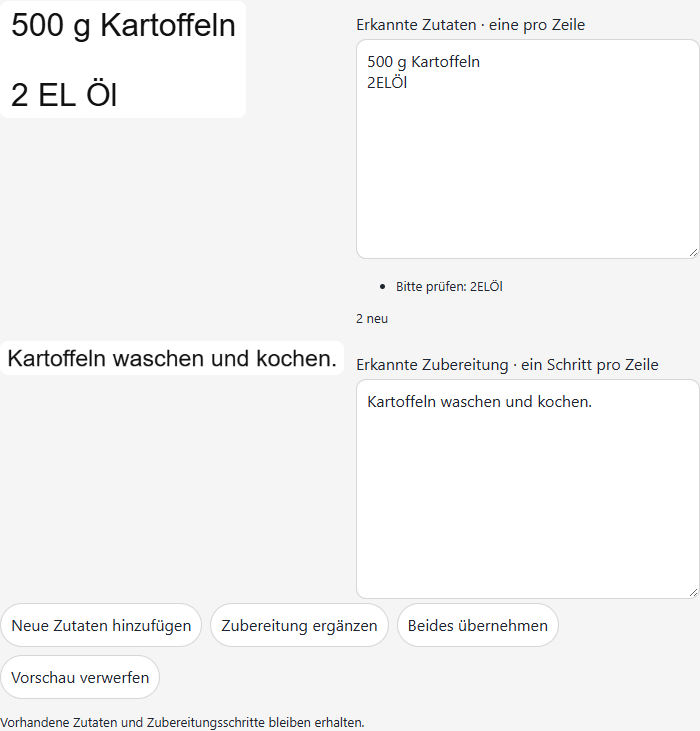
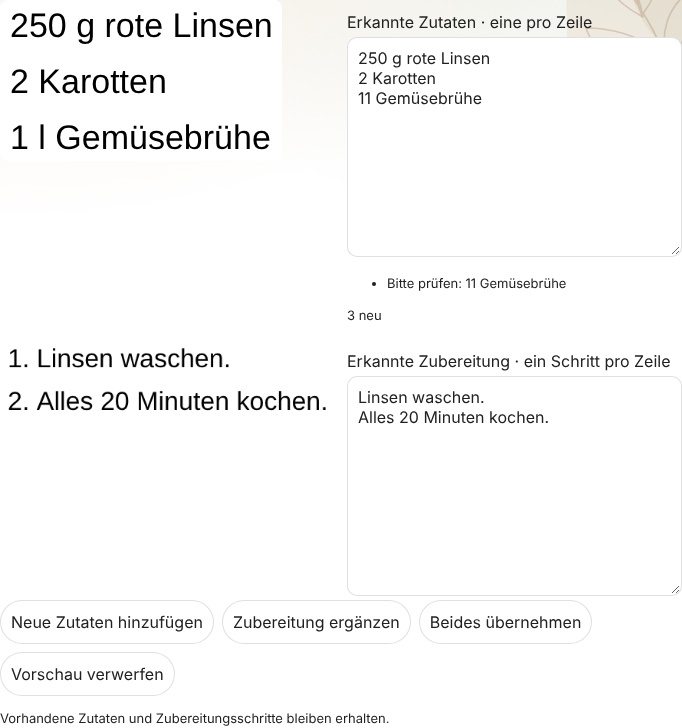
Essensplan 0.14.2: neue README-Bilder, Farbfehler im Mengen-Dialog
- Mengen & Nährwerte: Zeilen nutzen status-<Status> als Klasse; die
  globale Klasse .ok färbte vollständige Zeilen komplett grün.
- tools/readme_screenshots.py und .cjs erzeugen die README-Bilder aus
  erfundenen Testrezepten mit dem Code der Integration.
- Sechs neue Abbildungen in der README.

Claude-Session: https://claude.ai/code/session_01Gx6ab4Wub1sh6kfded4HAc

diff --git a/custom_components/essensplan/frontend/essensplan-card.js b/custom_components/essensplan/frontend/essensplan-card.js
@@ -1,4 +1,4 @@
-/* Essensplan 0.14.1 – bundled with the integration; no CDN or build step. */
+/* Essensplan 0.14.2 – bundled with the integration; no CDN or build step. */
 const esc = (value) => String(value ?? '').replace(/[&<>"']/g, c => ({'&':'&amp;','<':'&lt;','>':'&gt;','"':'&quot;',"'":'&#39;'}[c]));
 const localDate = d => `${d.getFullYear()}-${String(d.getMonth()+1).padStart(2,'0')}-${String(d.getDate()).padStart(2,'0')}`;
 function offsetDay(stamp, n) { const d = new Date(`${stamp}T12:00:00`); d.setDate(d.getDate()+n); return localDate(d); }
@@ -259,7 +259,7 @@ class EssensplanCard extends HTMLElement {
       ha-card{
         color:var(--ep-text);border-radius:26px;border:1px solid var(--ep-edge);
         background:var(--ep-surface);
-        background-image:url("/essensplan_static/kitchen-background.svg?v=0.14.1"),
+        background-image:url("/essensplan_static/kitchen-background.svg?v=0.14.2"),
           radial-gradient(ellipse at top left,#d9a47524,transparent 68%);
         background-size:min(100%,640px) auto,100% 360px;
         background-position:top right,top left;background-repeat:no-repeat;
@@ -290,7 +290,7 @@ class EssensplanCard extends HTMLElement {
       dialog{box-shadow:0 16px 54px #0005,inset 0 1px 0 var(--ep-glint)}
       @supports (color:color-mix(in srgb,white,black)){
         ha-card{
-          background-image:url("/essensplan_static/kitchen-background.svg?v=0.14.1"),
+          background-image:url("/essensplan_static/kitchen-background.svg?v=0.14.2"),
             radial-gradient(ellipse at 2% 0%,color-mix(in srgb,#e6ad7d 20%,transparent),transparent 63%),
             radial-gradient(ellipse at 96% 16%,color-mix(in srgb,#9baa7f 18%,transparent),transparent 65%),
             radial-gradient(ellipse at 5% 100%,color-mix(in srgb,var(--ep-accent) 12%,transparent),transparent 66%);
@@ -706,7 +706,7 @@ class EssensplanCard extends HTMLElement {
     return panel;
   }
   barcodeBox(box, onProduct) {
-    const scanner=()=>import('/essensplan_static/barcode/scanner.mjs?v=0.14.1');
+    const scanner=()=>import('/essensplan_static/barcode/scanner.mjs?v=0.14.2');
     box.innerHTML=`<p class="hint">Der Scan läuft lokal. Beim Nachschlagen wird nur der Barcode an Open Food Facts gesendet.</p>
       <div class="actions"><button type="button" data-camera>Barcode scannen</button>
         <button type="button" data-photo>Barcode-Foto</button><button type="button" data-stop hidden>Kamera schließen</button></div>
@@ -932,7 +932,7 @@ class EssensplanCard extends HTMLElement {
         if (info.status==='ok') complete++;
         if (info.status==='ignored') ignored++;
         const row=document.createElement('div');
-        row.className=`amount-row ${info.status}`;
+        row.className=`amount-row status-${info.status}`;
         row.innerHTML=`<input aria-label="Menge ${esc(item.name)}" data-qty inputmode="decimal" value="${esc(item.quantity==null?'':String(item.quantity).replace('.',','))}" placeholder="Menge">
           <select aria-label="Einheit ${esc(item.name)}" data-unit>${units.map(u=>`<option value="${u}"${(item.unit||'')===u?' selected':''}>${this.unitLabel(u)}</option>`).join('')}</select>
           <div class="amount-name"><strong>${esc(item.name)}</strong><div class="amount-state">${describe(item,view,info)}</div></div>
@@ -968,7 +968,7 @@ class EssensplanCard extends HTMLElement {
     const refresh=(row,index)=>{
       const item=items[index], entry=this.ingredientEntry(item.name), view=this.ingredientView(entry, staged);
       const info=this.amountStatus(item, view, item.useList);
-      row.className=`amount-row ${info.status}`;
+      row.className=`amount-row status-${info.status}`;
       row.querySelector('[data-unit]').value=item.unit||'';
       row.querySelector('.amount-state').innerHTML=describe(item,view,info);
       row.querySelector('[data-edit]').textContent=info.status==='weight'?'Gewicht':'Zuordnen';
@@ -1363,7 +1363,7 @@ class EssensplanCard extends HTMLElement {
         choose.disabled=true;
         status.textContent='Screenshots werden lokal gelesen …';
         try {
-          ocr=await import('/essensplan_static/recipe-ocr.mjs?v=0.14.1');
+          ocr=await import('/essensplan_static/recipe-ocr.mjs?v=0.14.2');
           const result=await ocr.recognizeRecipe(selected,(page,progress)=>{
             if (active()) status.textContent=`Bild ${page} von ${selected.length} wird lokal gelesen … ${progress} %`;
           },controller.signal);

diff --git a/custom_components/essensplan/frontend/essensplan-panel.js b/custom_components/essensplan/frontend/essensplan-panel.js
@@ -1,12 +1,12 @@
 /* The same versioned module is shared with existing Lovelace dashboards. */
-import './essensplan-card.js?v=0.14.1';
+import './essensplan-card.js?v=0.14.2';
 
 class EssensplanPanel extends HTMLElement {
   constructor() {
     super();
     this.attachShadow({mode:'open'});
     this.shadowRoot.innerHTML = `<style>
-      :host{display:block;height:100%;overflow:auto;color:var(--primary-text-color);background:var(--primary-background-color) url("/essensplan_static/dashboard-background.svg?v=0.14.1") center/cover no-repeat}
+      :host{display:block;height:100%;overflow:auto;color:var(--primary-text-color);background:var(--primary-background-color) url("/essensplan_static/dashboard-background.svg?v=0.14.2") center/cover no-repeat}
       header{display:flex;align-items:center;gap:12px;height:56px;padding:0 12px;border-bottom:1px solid var(--divider-color);background:var(--card-background-color)}
       h1{font-size:20px;font-weight:400;margin:0}main{max-width:1100px;margin:0 auto;padding:16px;box-sizing:border-box}
       @media(max-width:450px){main{padding:8px}}

diff --git a/tools/readme_screenshots.py b/tools/readme_screenshots.py
@@ -1,0 +1,102 @@
+"""Create the README images from invented test recipes.
+
+Usage: python tools/readme_screenshots.py
+Requires Node.js and Playwright with Chromium. The data is computed with the
+integration's own model and nutrition code, so totals, suggestions and the
+ingredient list match what Home Assistant would show. No real recipes are used.
+"""
+import importlib.util
+import json
+from pathlib import Path
+import subprocess
+import sys
+import tempfile
+from types import ModuleType
+
+ROOT = Path(__file__).resolve().parents[1]
+COMPONENT = ROOT / 'custom_components/essensplan'
+TODAY = '2026-10-15'
+
+
+def load():
+    package = ModuleType('essensplan_readme')
+    package.__path__ = [str(COMPONENT)]
+    sys.modules[package.__name__] = package
+    modules = {}
+    for name in ('nutrition', 'model'):
+        spec = importlib.util.spec_from_file_location(f'{package.__name__}.{name}', COMPONENT / f'{name}.py')
+        module = importlib.util.module_from_spec(spec)
+        sys.modules[spec.name] = module
+        spec.loader.exec_module(module)
+        modules[name] = module
+    return modules['model'], modules['nutrition']
+
+
+RECIPES = [
+    ('Hähnchen-Curry mit Reis', 4, 35, [('Hähnchenbrust', '500', 'g'), ('Kokosmilch', '400', 'ml'),
+                                        ('Paprika', '2', 'stück'), ('Zwiebel', '1', 'stück'),
+                                        ('Reis', '250', 'g'), ('Currypulver', '2', 'tl')]),
+    ('Linsensuppe', 4, 40, [('rote Linsen', '250', 'g'), ('Karotten', '2', 'stück'),
+                            ('Zwiebel', '1', 'stück'), ('Gemüsebrühe', '1', 'l'), ('Olivenöl', '2', 'el')]),
+    ('Ofengemüse mit Feta', 2, 45, [('Kartoffeln', '600', 'g'), ('Zucchini', '1', 'stück'),
+                                    ('Paprika', '1', 'stück'), ('Feta', '1', 'stück'), ('Olivenöl', '3', 'el')]),
+    ('Spaghetti Bolognese', 4, 50, [('Spaghetti', '500', 'g'), ('Hackfleisch', '500', 'g'),
+                                    ('passierte Tomaten', '500', 'g'), ('Zwiebel', '1', 'stück'),
+                                    ('Knoblauch', '2', 'stück'), ('Parmesan', None, '')]),
+    ('Griechischer Salat', 2, 15, [('Gurke', '1', 'stück'), ('Tomaten', '4', 'stück'), ('Feta', '1', 'stück'),
+                                   ('rote Zwiebel', '1', 'stück'), ('Oliven', '80', 'g'), ('Olivenöl', '2', 'el')]),
+    ('Kartoffel-Lauch-Auflauf', 4, 60, [('Kartoffeln', '1', 'kg'), ('Lauch', '2', 'stück'), ('Sahne', '200', 'ml'),
+                                        ('Reibekäse', '150', 'g'), ('Muskat', None, '')]),
+]
+
+
+def fixture():
+    model, nutrition = load()
+    state = model.initial_state()
+    ids = {}
+
+    def change(operation, payload, meals_per_day=2):
+        nonlocal state
+        state = model.mutate(state, operation, payload, TODAY, meals_per_day)
+
+    for name, servings, minutes, items in RECIPES:
+        before = set(state['recipes'])
+        change('save_recipe', {'name': name, 'servings': servings, 'minutes': minutes, 'steps': ['Zubereiten.'],
+                               'ingredients': [{'name': n, 'quantity': q or '', 'unit': u} for n, q, u in items]})
+        ids[name] = (set(state['recipes']) - before).pop()
+    change('favorite', {'id': ids['Linsensuppe'], 'favorite': True})
+    change('set_meal', {'date': '2026-10-12', 'slot': 1, 'recipe_id': ids['Hähnchen-Curry mit Reis'], 'servings': 2,
+                        'cook_servings': 6, 'leftover': {'date': '2026-10-14', 'slot': 0, 'servings': 2}})
+    change('mark_cooked', {'date': '2026-10-12', 'slot': 1, 'cooked': True})
+    change('set_meal', {'date': '2026-10-13', 'slot': 1, 'recipe_id': ids['Linsensuppe'], 'servings': 4})
+    change('mark_cooked', {'date': '2026-10-13', 'slot': 1, 'cooked': True})
+    change('set_meal', {'date': '2026-10-15', 'slot': 0, 'recipe_id': ids['Griechischer Salat'], 'servings': 2})
+    change('set_meal', {'date': '2026-10-15', 'slot': 1, 'recipe_id': ids['Spaghetti Bolognese'], 'servings': 4})
+    change('set_meal', {'date': '2026-10-17', 'slot': 1, 'recipe_id': ids['Ofengemüse mit Feta'], 'servings': 2})
+    # Most ingredients take the first suggestion; a few stay open to show the workflow.
+    open_names = {'Oliven', 'Reibekäse', 'Lauch', 'Sahne'}
+    listed = []
+    for entry in nutrition.ingredient_overview(state):
+        if entry['status'] == 'open' and entry['name'] not in open_names:
+            first = nutrition.candidates(entry['name'], state['recipes'])[0]
+            listed.append({'name': entry['name'], 'nutrition': {'code': first['code']}})
+    change('set_ingredients', {'items': listed})
+    snapshot = dict(state, meals_per_day=2, modules={'nutrition': True}, today=TODAY,
+                    nutrition={rid: nutrition.totals(r, state['ingredients']) for rid, r in state['recipes'].items()},
+                    ingredient_list=nutrition.ingredient_overview(state),
+                    shopping=model.shopping(state, TODAY))
+    names = {entry['name'] for entry in snapshot['ingredient_list']}
+    return {'state': snapshot, 'ids': ids,
+            'search': {name: nutrition.candidates(name, state['recipes'], state['ingredients']) for name in names}}
+
+
+def main():
+    with tempfile.TemporaryDirectory() as folder:
+        path = Path(folder) / 'fixture.json'
+        path.write_text(json.dumps(fixture(), ensure_ascii=False))
+        subprocess.run(['node', str(ROOT / 'tools/readme_screenshots.cjs'), str(path), str(ROOT / 'docs/images')],
+                       check=True)
+
+
+if __name__ == '__main__':
+    main()

diff --git a/custom_components/essensplan/const.py b/custom_components/essensplan/const.py
@@ -1,6 +1,6 @@
 DOMAIN = 'essensplan'
 PLATFORMS = ['sensor', 'todo']
-VERSION = '0.14.1'
+VERSION = '0.14.2'
 CONF_NUTRITION_ENABLED = 'nutrition_enabled'
 CONF_MEALS_PER_DAY = 'meals_per_day'
 DEFAULT_MEALS_PER_DAY = 1

diff --git a/README.md b/README.md
@@ -86,11 +86,15 @@ Die mitgelieferte ZXing-Bibliothek und ihre Lizenztexte liegen in
 
 ## Einblicke
 
-![Rezeptwahl aus einem freien Wochenplanplatz](docs/images/rezeptwahl.png)
-![Mealprep am Kochplatz](docs/images/mealprep.png)
-![Lokale Screenshot-Prüfung](docs/images/screenshot-pruefung.png)
+![Wochenplan mit Tageskacheln, Mealprep und gekochten Gerichten](docs/images/wochenplan.png)
+![Rezeptwahl aus einem freien Platz im Wochenplan](docs/images/rezeptwahl.png)
+![Aktionsmenü eines Gerichts mit Mealprep und Resten](docs/images/mealprep.png)
+![Zutaten & Nährwerte: jede Zutat einmal zuordnen](docs/images/zutaten-naehrwerte.png)
+![Mengen & Nährwerte eines Rezepts mit Status je Zutat](docs/images/mengen-naehrwerte.png)
+![Lokaler Rezeptimport aus einem Screenshot mit Prüfhinweis](docs/images/screenshot-pruefung.png)
 
-Die Abbildungen verwenden Testrezepte und Beispieldaten.
+Die Abbildungen verwenden erfundene Testrezepte. `python tools/readme_screenshots.py`
+erzeugt sie mit dem aktuellen Stand neu (benötigt Node.js und Playwright mit Chromium).
 
 ## Rezeptkarten
 

diff --git a/CHANGELOG.md b/CHANGELOG.md
@@ -1,5 +1,10 @@
 # Änderungen
 
+## 0.14.2
+
+- Mengen & Nährwerte: Vollständige Zutaten färben nur noch den Status grün, nicht mehr die ganze Zeile.
+- Neue Abbildungen in der README für Wochenplan, Rezeptwahl, Aktionsmenü, Zutatenliste, Mengen-Tabelle und Screenshot-Import; `tools/readme_screenshots.py` erzeugt sie reproduzierbar aus Testrezepten.
+
 ## 0.14.1
 
 - **Produkte suchen**: Supermarktprodukte bei Open Food Facts per Suchbegriff finden (nur in Deutschland verkaufte Produkte mit vollständigen Nährwerten). Gesendet wird nur der Suchbegriff; die Auswahl läuft über den geprüften Barcode-Abruf.
